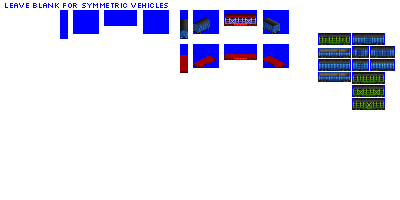
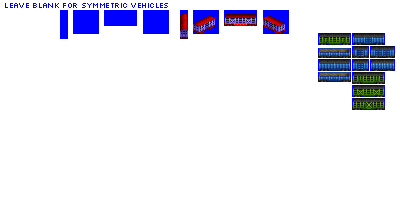
Change: sprites complete for gen 5C and 6C livestock cars

Changed region(s): [[0.45, 0.06, 0.72, 0.39], [0.66, 0.06, 0.72, 0.18]]

diff --git a/src/vehicles/livestock_cars.py b/src/vehicles/livestock_cars.py
@@ -52,7 +52,8 @@ def main():
     consist = LivestockCarConsist(roster='pony',
                                   base_numeric_id=2720,
                                   gen=5,
-                                  subtype='C')
+                                  subtype='C',
+                                  sprites_complete=True)
 
     consist.add_unit(type=FreightCar,
                      vehicle_length=8,
@@ -62,7 +63,8 @@ def main():
     consist = LivestockCarConsist(roster='pony',
                                   base_numeric_id=2710,
                                   gen=6,
-                                  subtype='C')
+                                  subtype='C',
+                                  sprites_complete=True)
 
     consist.add_unit(type=FreightCar,
                      vehicle_length=8,
